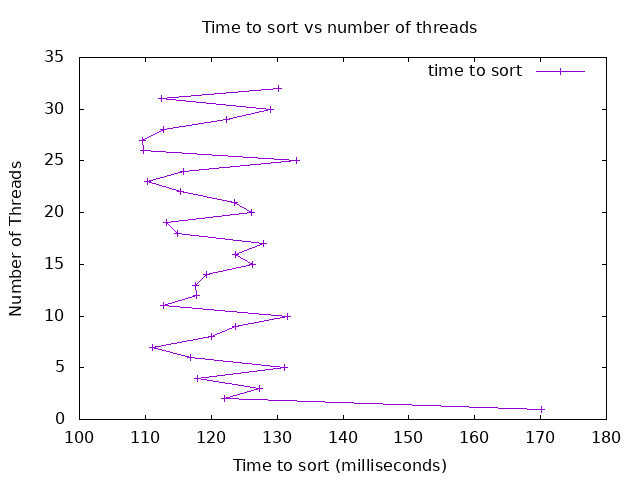
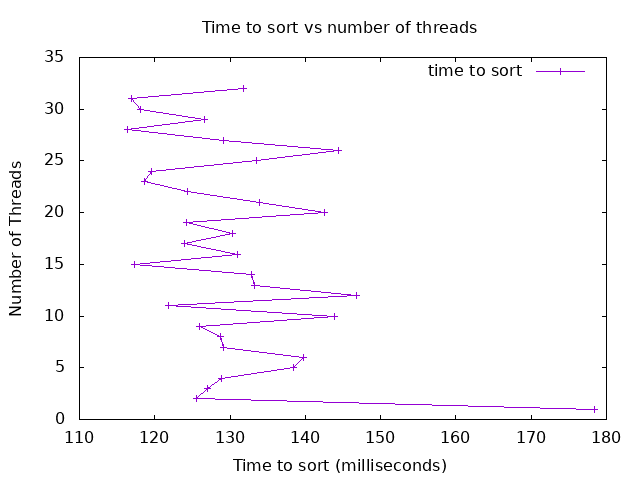
Added Analysis.md

diff --git a/Analysis.md b/Analysis.md
@@ -1,0 +1,55 @@
+## Objective
+The objective of this analysis is to examine the performance of a multi-threaded merge sort algorithm by measuring the sorting time as the number of threads increases. By analyzing these results, we aim to identify the optimal thread count for sorting efficiency and understand the performance trends of our system.
+
+## System Overview
+The merge sort algorithm was modified to support multi-threading. Each thread handles a separate segment of the array, and the results are merged sequentially after sorting. This approach aims to reduce sorting time by leveraging multiple cores.
+
+# Observations
+
+## Optimal Thread Count:
+The minimum recorded time for sorting occurred when the number of threads was around 28. With 28 threads, the sorting time reached approximately 116.38 ms, which appears to be the optimal performance for this dataset and system configuration.
+Other near-optimal times occurred at 15 threads (117.24 ms) and 31 threads (116.90 ms), indicating some consistency in performance improvement in the 15–32 thread range.
+
+## Performance Trends:
+From the graph, I observed a general trend where the sorting time initially decreases as the number of threads increases, reaching an optimal range around 15–32 threads.
+However, the sorting time fluctuates significantly with certain thread counts. For example, 12 and 10 threads have higher times (146.80 ms and 143.87 ms, respectively), showing that performance does not always scale linearly with an increase in threads.
+This fluctuation could be due to system overheads, such as context switching or increased CPU load, which diminish the benefits of additional threads.
+
+## Anomalies and Inconsistencies:
+The sorting time increases at specific points (e.g., at 5, 6, 10, 12, and 20 threads), likely due to overhead associated with managing too many or inefficiently assigned threads.
+The irregular pattern suggests that as more threads are introduced, contention for resources such as CPU caches, memory, and bandwidth could impact performance negatively.
+
+## Comparisons with Single-Threaded Performance:
+The single-threaded performance, measured at 178.38 ms, is considerably slower than most multi-threaded results.
+This confirms that multi-threading provides a substantial speedup, especially in the 15–32 thread range, reducing sorting time by over 35% compared to the single-threaded version.
+Conclusion
+The analysis shows that the multi-threaded merge sort achieves optimal performance with around 28 threads on this system. Beyond this thread count, the gains in sorting time are minimal or inconsistent due to system overhead. The system architecture is an Inspiron i7-3000 series and its handling of multi-threading may account for why the optimal count is higher compared to other systems, such as M1 Macs, which may reach optimum performance with fewer threads due to their different architecture and threading efficiencies.
+
+# Analysis
+Were you able to generate something close to what the example showed? Why or why not.
+
+The graph was similar just a lot more zoomed in then the expected result, but the overall data of the graph wasn't even close to the expected result. In the example, the optimal thread count was around 9 or 10, with a clear decrease in sorting time as thread count increased up to that point, followed by a gradual increase in sorting time with additional threads. In my case, however, the optimal thread count was significantly higher (around 28 threads), and the graph showed more fluctuation in sorting times as thread count increased. The difference is likely due to hardware variations. The example was run on an M1 Mac, which has a different architecture and may handle multi-threading more efficiently with fewer threads. In contrast, my machine (an Inspiron with an Intel i7 processor) benefits from more threads, likely because of its specific core and hyper-threading structure, which allows it to handle a larger number of threads before reaching its peak performance.
+
+Did you see a slow down at some point why or why not?
+
+Yes, there were slowdowns at several points, particularly around 5, 6, 10, 12, and 20 threads. These slowdowns are likely due to the overhead associated with managing multiple threads. 
+
+
+Did your program run faster and faster when you added more threads? Why or why not?
+
+No, the program did not continue to run faster with each additional thread. Initially, increasing the thread count led to faster sorting times, but after reaching an optimal range (around 15-32 threads), the performance gains became inconsistent, with some thread counts even showing increased sorting times.
+
+
+What was the optimum number of threads for your machine?
+
+The optimal number of threads for this machine was 28 threads, which yielded the lowest sorting time of approximately 116.38 ms.
+
+
+What was the slowest number of threads for your machine?
+
+
+The slowest sorting time occurred with 1 thread, at approximately 178.38 ms. This is expected, as a single-threaded merge sort lacks the parallelism to take advantage of the system’s multiple cores, resulting in the longest execution time.
+
+
+## Graph
+You can find the graph in my report summary or the file "student_plot.png" as I wasn't able to put a picture into this file.
